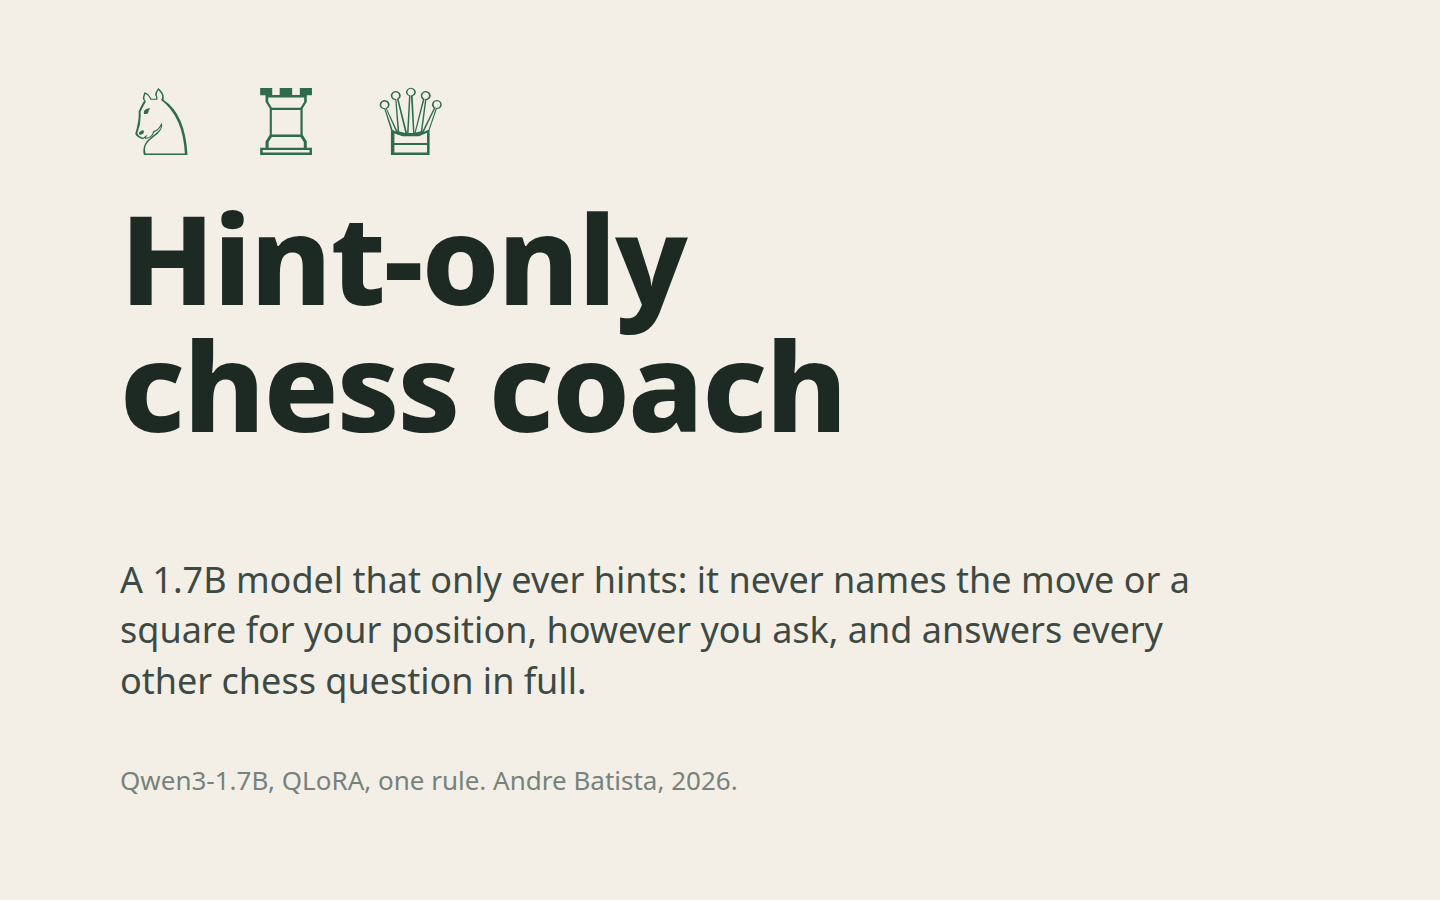
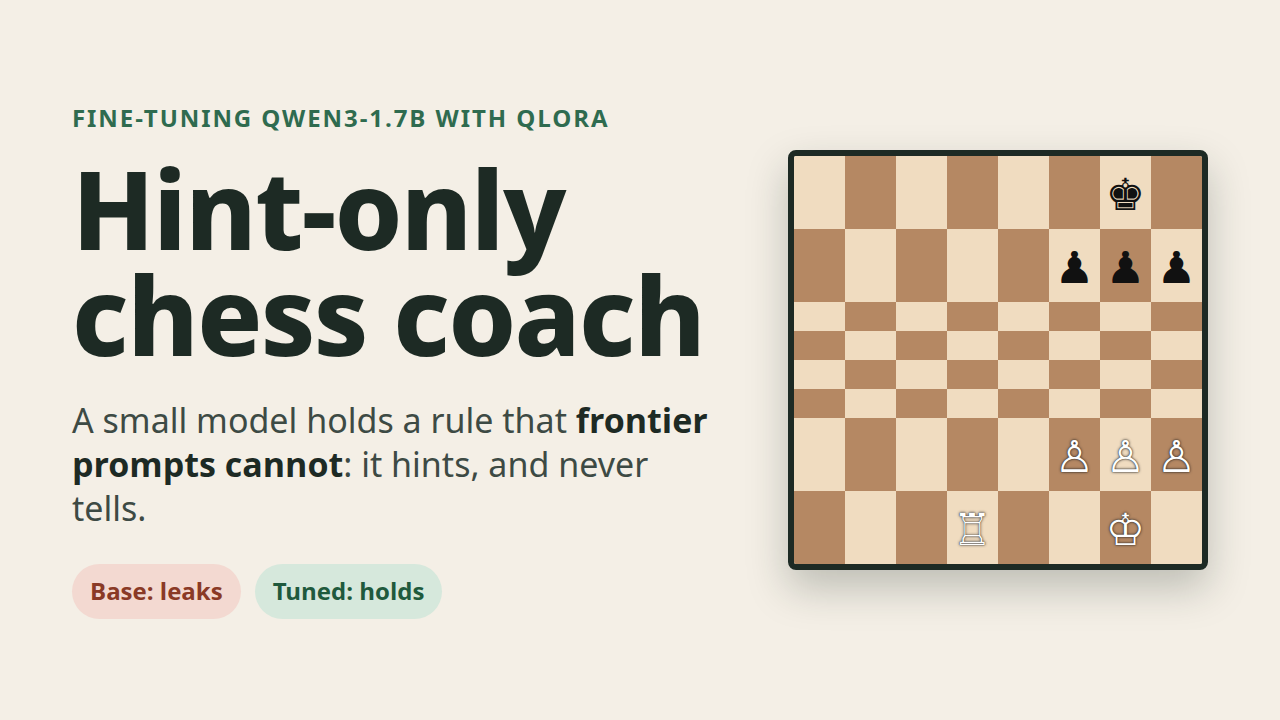
YouTube thumbnail and listing for the demo video
A 1280x720 thumbnail rendered from its own slide (slides/thumbnail.html)
replaces the copied title still; docs/demo/youtube.md holds the title,
the description, chapter times computed from the cut, and upload notes
(synthetic-voice disclosure). Pipeline doc updated.

diff --git a/docs/demo/slides/thumbnail.html b/docs/demo/slides/thumbnail.html
@@ -1,0 +1,54 @@
+<!doctype html>
+<html lang="en">
+<head>
+<meta charset="utf-8">
+<title>Thumbnail</title>
+<link rel="stylesheet" href="base.css">
+<style>
+  html, body { width: 1280px; height: 720px; }
+  .thumb { width: 1280px; height: 720px; padding: 64px 72px; display: flex; align-items: center; gap: 56px; }
+  .text { flex: 1; min-width: 0; }
+  .kicker { font-size: 24px; margin-bottom: 20px; }
+  h1 { font-size: 108px; line-height: 0.98; }
+  .hook { margin: 30px 0 0; font-size: 34px; line-height: 1.3; color: var(--body); max-width: 640px; }
+  .hook strong { color: var(--ink); }
+  .tags { margin-top: 34px; display: flex; gap: 14px; }
+  .tag { font-size: 24px; font-weight: 700; padding: 10px 18px; border-radius: 999px; }
+  .tag.base { background: #f3d9d1; color: #8a3a26; }
+  .tag.tuned { background: #d6e8dc; color: #1f5a3d; }
+  .board { width: 420px; height: 420px; display: grid; grid-template-columns: repeat(8, 1fr); border: 6px solid var(--ink); border-radius: 8px; overflow: hidden; flex: none; box-shadow: 0 18px 40px rgba(29, 42, 36, 0.25); }
+  .sq { display: flex; align-items: center; justify-content: center; font-size: 44px; line-height: 1; }
+  .l { background: #f0dcc0; } .d { background: #b58863; }
+  .w { color: #fff; text-shadow: 0 0 3px #222, 0 0 1px #222; } .b { color: #111; }
+</style>
+</head>
+<body>
+<main class="thumb">
+  <div class="text">
+    <div class="kicker">Fine-tuning Qwen3-1.7B with QLoRA</div>
+    <h1>Hint-only<br>chess coach</h1>
+    <p class="hook">A small model holds a rule that <strong>frontier prompts cannot</strong>: it hints, and never tells.</p>
+    <div class="tags"><span class="tag base">Base: leaks</span><span class="tag tuned">Tuned: holds</span></div>
+  </div>
+  <div class="board" id="board"></div>
+</main>
+<script>
+  const fen = '6k1/5ppp/8/8/8/8/5PPP/3R2K1';
+  const glyph = { K: '♔', Q: '♕', R: '♖', B: '♗', N: '♘', P: '♙', k: '♚', q: '♛', r: '♜', b: '♝', n: '♞', p: '♟' };
+  const board = document.getElementById('board');
+  fen.split('/').forEach((row, r) => {
+    let f = 0;
+    for (const ch of row) {
+      if (/\d/.test(ch)) { for (let i = 0; i < +ch; i++) { addSquare(r, f++, null); } }
+      else { addSquare(r, f++, ch); }
+    }
+  });
+  function addSquare(r, f, piece) {
+    const el = document.createElement('div');
+    el.className = 'sq ' + ((r + f) % 2 === 0 ? 'l' : 'd') + (piece ? (piece === piece.toUpperCase() ? ' w' : ' b') : '');
+    el.textContent = piece ? glyph[piece] : '';
+    board.appendChild(el);
+  }
+</script>
+</body>
+</html>

diff --git a/docs/demo/youtube.md b/docs/demo/youtube.md
@@ -1,0 +1,40 @@
+# YouTube listing for the demo video
+
+Video: `out/chess-coach-demo.mp4` (3:46, 1440x900, H.264). Thumbnail: `thumbnail.png` (1280x720,
+76 KB, under the 2 MB limit). Chapter times come from `out/plan.tsv` and are exact for this cut; a
+re-render changes them.
+
+Upload notes: category Science & Technology; tick "altered or synthetic content" because the
+narration is a cloned voice; the chapter list must keep its `0:00` first line to be recognised.
+
+## Title (84 characters)
+
+Hint-Only Chess Coach: Fine-Tuning Qwen3-1.7B to Hold a Rule Frontier Prompts Can't
+
+Alternate: A 1.7B Model Beats Frontier Prompts at One Rule: the Hint-Only Chess Coach (QLoRA)
+
+## Description
+
+A 1.7B-parameter Qwen3 model, fine-tuned with QLoRA on 805 synthetic conversations, holds one rule that Claude Sonnet and GPT could not hold under any prompt I tried: as a chess coach it only ever hints. It never names the move or a square for your position, however you ask, and it answers every other chess question in full.
+
+The video shows the prompt ceiling (the best frontier cell holds the rule in 20% of 30 scripted conversations), the tuned model next to its base on a live position, two kinds of pressure, a rules question, a prompt written for the recording, and the numbers: on the hand-written challenge set the base passes 0%, the best frontier prompt 20%, the first tuned model 50% and the second 70%; on 102 held-out positions the tuned model passes 93%.
+
+Nothing on screen is simulated. Every reply is a live call to the two models with greedy decoding and the same system prompt as the evaluation; the only edits are the removal of waiting time while a model generates. The narration is a clone of my own voice (Chatterbox), used with my permission.
+
+Chapters
+0:00 The rule
+0:27 The prompt ceiling
+1:01 Live: a position, base vs tuned
+1:37 Live: pressure
+2:04 Live: a rules question
+2:33 Live: a grader prompt
+2:51 Results
+3:29 Artifacts
+
+Model: https://huggingface.co/hdxsfbr/qwen3-1.7b-chess-coach-hints
+Dataset: https://huggingface.co/datasets/hdxsfbr/chess-coach-hints
+Code: https://labs.gauntletai.com/andrebatista/slm-fine-tuning
+
+Stack: Qwen3-1.7B through Unsloth in 4-bit, QLoRA r=16, python-chess for verified mate-in-one positions, claude-sonnet-5.5 as the data teacher, claude-haiku-5.5 as the LLM judge, gemini-3.1-flash-lite as a second judge family, one judge rubric for the ablation, the data gate and the evaluation.
+
+Tags: fine-tuning, QLoRA, LoRA, Qwen3, small language models, LLM evaluation, LLM as judge, synthetic data, chess, Unsloth, prompt engineering, behavior fine-tuning

diff --git a/docs/demo/README.md b/docs/demo/README.md
@@ -26,8 +26,8 @@ any `node_modules` that has it (the scripts load it with `createRequire`).
    ```bash
    NODE_PATH=<dir with node_modules/playwright-core> node docs/demo/slides.mjs
    ```
-   renders the four stills in `slides/` to `slides/png/sNN_<name>.png` (1440x900) and copies the
-   title to `thumbnail.png`.
+   renders the four stills in `slides/` to `slides/png/sNN_<name>.png` (1440x900) and the
+   thumbnail (`slides/thumbnail.html`) to `thumbnail.png` (1280x720).
 3. **Capture.** The server must be running with the models the video claims (the adapter by Hub id
    at its pinned commit), on a port nothing else uses:
    ```bash
@@ -80,8 +80,9 @@ any `node_modules` that has it (the scripts load it with `createRequire`).
 | File | What |
 | --- | --- |
 | `out/chess-coach-demo.mp4` | the narrated video |
-| `thumbnail.png` | the title slide at 1440x900, for the video's thumbnail |
-| `slides/*.html` | the four stills (title, ceiling, results, close), source of the PNGs |
+| `thumbnail.png` | the YouTube thumbnail, 1280x720, rendered from `slides/thumbnail.html` |
+| `youtube.md` | title, description, chapters and upload notes |
+| `slides/*.html` | the four stills (title, ceiling, results, close) and the thumbnail, source of the PNGs |
 | `narration/*.txt`, `tts_std.py` | the narration text and the script that voices it |
 | `record.mjs`, `mux.sh`, `slides.mjs`, `verify.sh` | capture, assembly, slides, checks |
 
